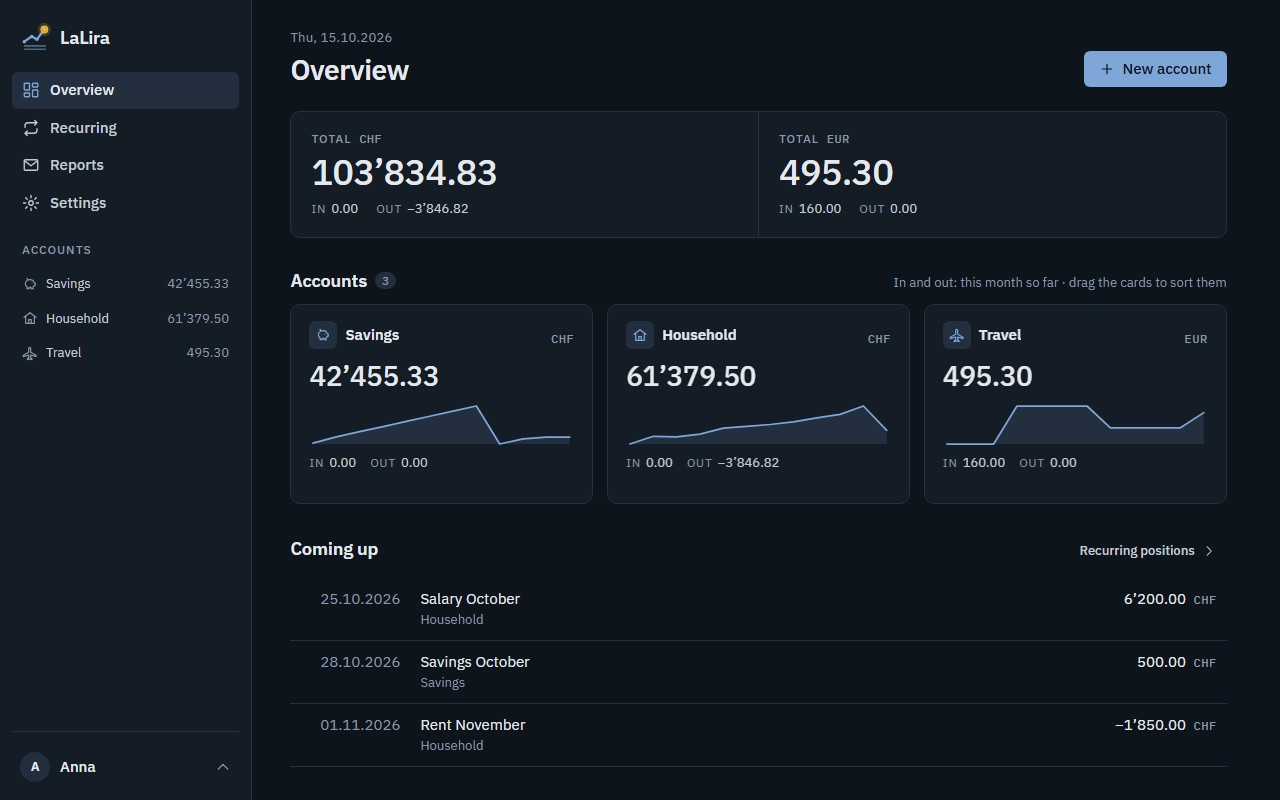
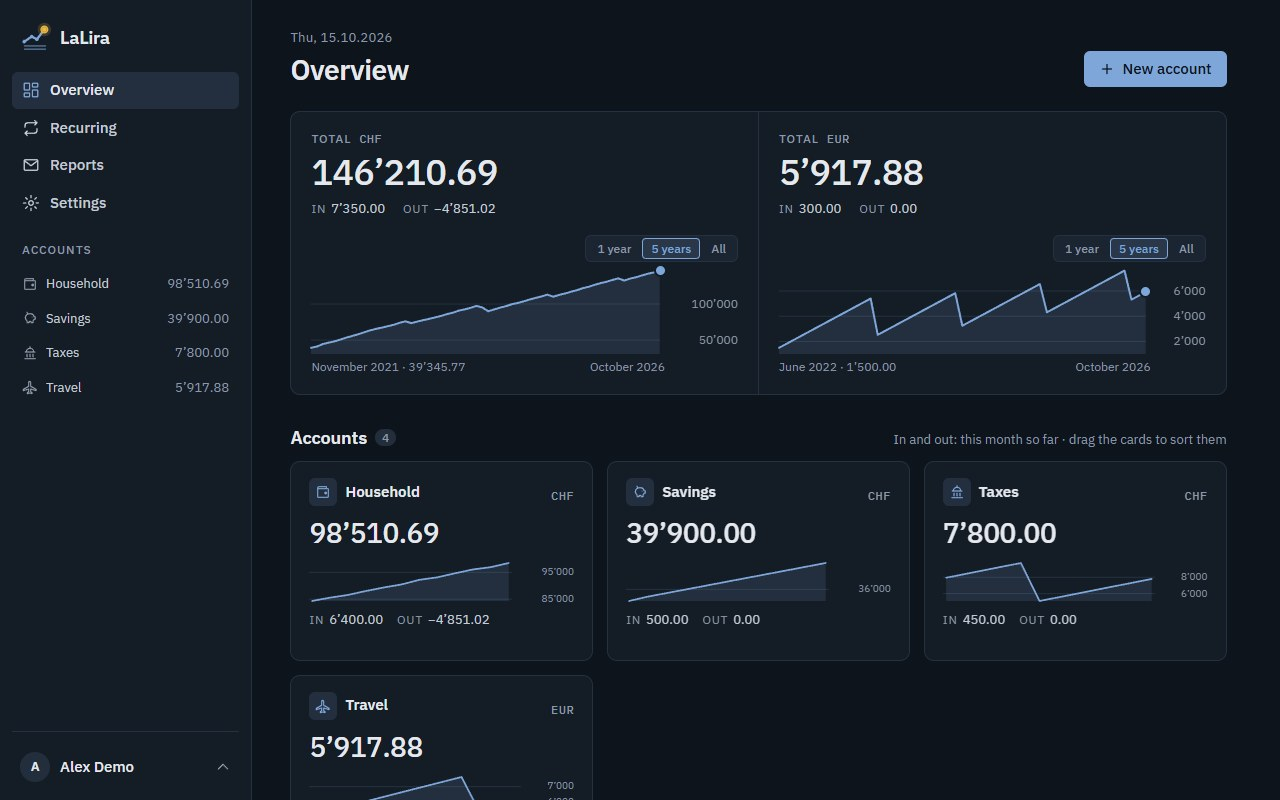
Release 1.3.0
Release notes for the total charts, sparkline grid lines and digit-only
dates. The README opens with the sign-in page, as the user asked, and the
overview screenshot is retaken (invented demo data) so it shows the new
charts.

diff --git a/README.md b/README.md
@@ -2,14 +2,14 @@
 
 Simple, self-hosted bookkeeping for your accounts. Each account has a currency, a starting balance and a list of money in and out with a running balance; earlier years are summed up as their year-end balance. Recurring bookings book themselves, even after the app was down, and a report arrives by email when the month is over.
 
-![The overview: totals per currency, every account with its balance and this month's money in and out, and the recurring bookings coming up](docs/images/lalira-overview.jpg)
+![The sign-in page](docs/images/lalira-signin.jpg)
+
+![The overview: totals per currency with their balance charts, every account with its balance and this month's money in and out, and the recurring bookings coming up](docs/images/lalira-overview.jpg)
 
 ![An account: the entry row for new positions, and the list with its running balance](docs/images/lalira-account.jpg)
 
-![The sign-in page](docs/images/lalira-signin.jpg)
-
-- **Accounts and positions**: a date, a description and an amount (a minus means money out), typed straight into the list, with an optional note. The current year shows every position; older years show one 31.12. line that opens on click, or all at once, or are hidden with "Only current year".
-- **Balance chart and search**: the balance over 1 year, 5 years or everything, with grid lines and amounts, and a search through an account's descriptions, notes, amounts and dates.
+- **Accounts and positions**: a date, a description and an amount (a minus means money out), typed straight into the list (dates also as digits only, like 29012016), with an optional note. The current year shows every position; older years show one 31.12. line that opens on click, or all at once, or are hidden with "Only current year".
+- **Balance charts and search**: the balance of each account and of each currency total over 1 year, 5 years or everything, with grid lines and amounts, and a search through an account's descriptions, notes, amounts and dates.
 - **Your order**: sort the accounts on the overview by dragging a card or with the small arrows in its corners; the sidebar and every list follow.
 - **IBAN**: optional per account, checked for typos, with a copy button.
 - **Recurring positions**: weekly, monthly, quarterly or yearly, with placeholders such as `Deposit {month}` → "Deposit October". Missed dates are booked with their own date as soon as the app is back.

diff --git a/CHANGELOG.md b/CHANGELOG.md
@@ -1,5 +1,12 @@
 # Release notes
 
+## 1.3.0 - 2026-10-15
+
+### New
+- Each total on the overview has a balance chart (1 year, 5 years or everything).
+- The small charts on the account cards show grid lines with their amounts.
+- Dates can be typed as digits only: 29012016, 290116 or 2901 (this year), in your region's order.
+
 ## 1.2.0 - 2026-10-15
 
 ### New
